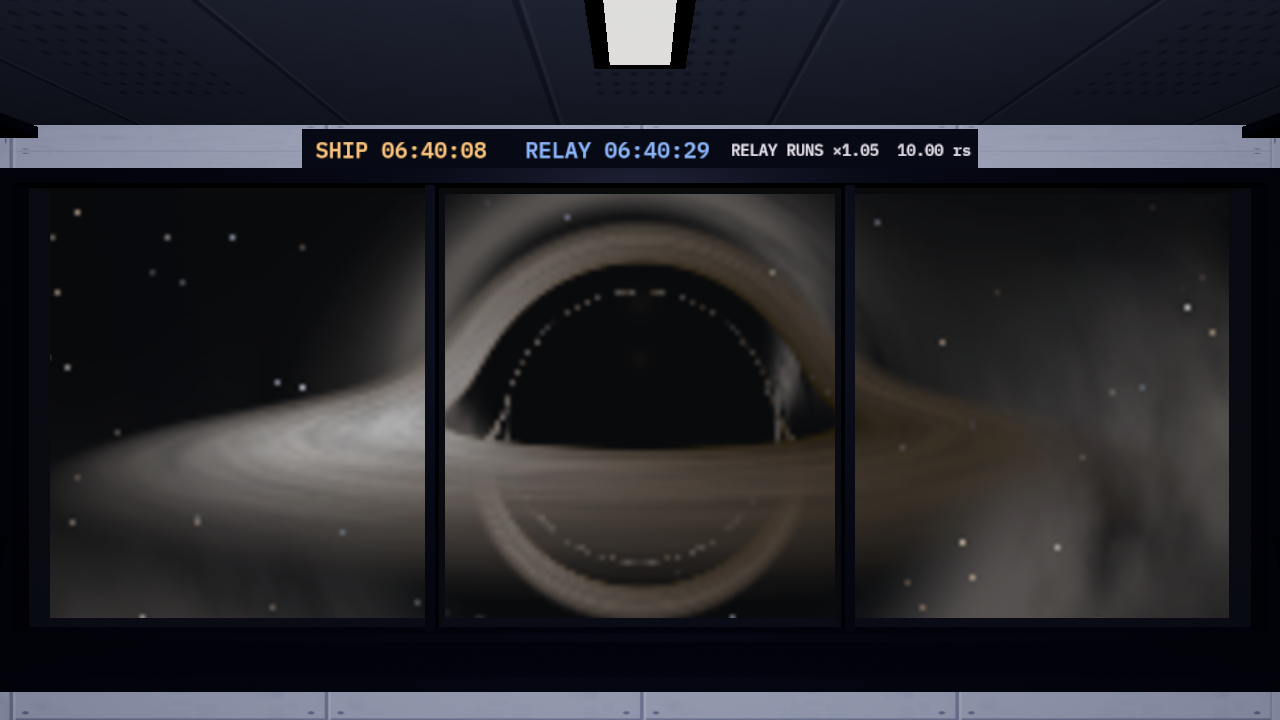
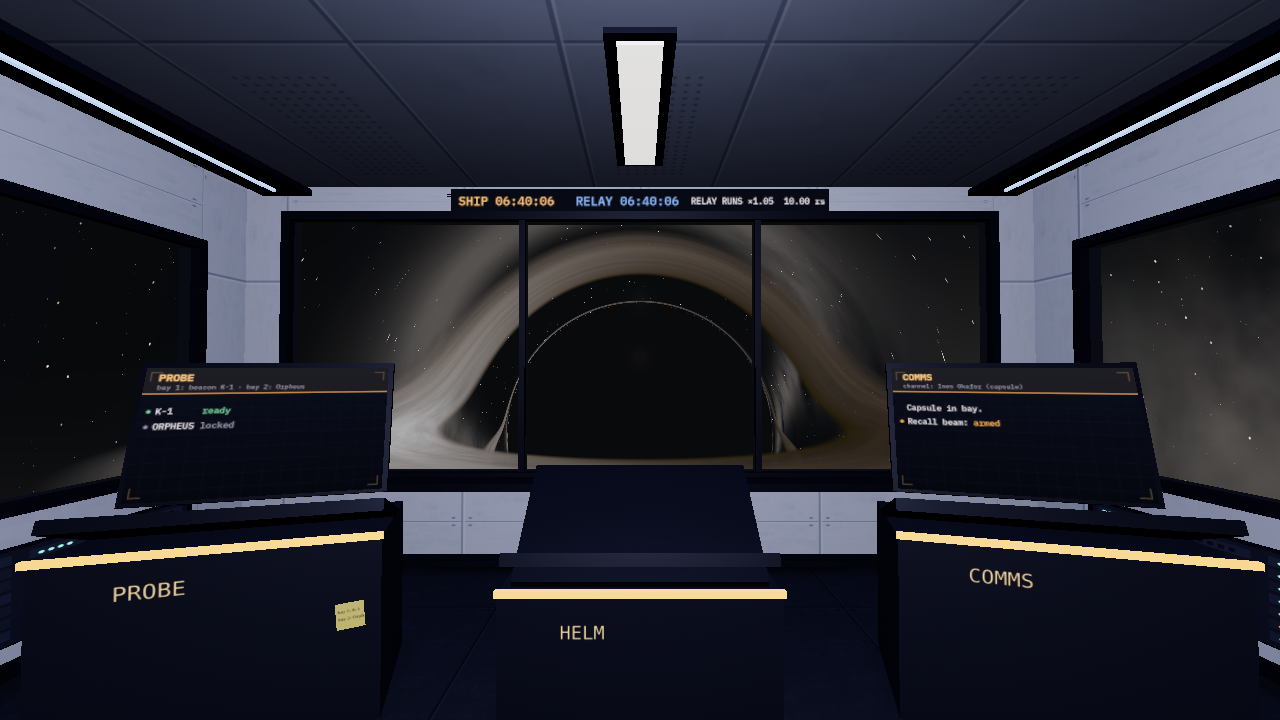
Photo mode: develop the sky at full resolution
A saved picture used the sky's live adaptive scale (0.2 to 0.3 on a small
GPU), so the sky in it was blurry. The sky is now traced once at one sky
pixel per picture pixel with a step budget of at least 640, past the
low-GPU cap, then the live scale and steps are restored. That frame is
kept out of the adaptive GPU timing so the live scale is not pulled down
afterwards. "Developing…" is shown while it renders. The photo-mode
captures are re-shot on top of the photon-ring change from #25.

drafted by Claude on behalf of Daniel Stephenson

Claude-Session: https://claude.ai/code/session_01LYNeuoywqv36qaEM575vny

diff --git a/src/game/photo.js b/src/game/photo.js
@@ -6,7 +6,7 @@
 // see-through windows) on top. Neither keeps its buffer after the frame is shown, so capture() draws
 // both afresh and copies them into one canvas in the same task, sky first.
 import { h } from '../ui/dom.js';
-import { hoverVelocity, LOW_GPU } from '../render/raytracer.js';
+import { hoverVelocity } from '../render/raytracer.js';
 import { shipPosition, toHole } from './world.js';
 import { step } from './walk.js';
 import { unlock } from './discoveries.js';
@@ -148,7 +148,11 @@ export function createPhoto(g, { el, THREE, camera, scene, renderer, sky, skyCan
   async function capture() {
     if (!on || busy) return null;
     busy = true;
+    let note = null;
     try {
+      // the full-quality sky can take a second or so on a small GPU: say so, and let that paint first
+      note = h('div.ph-developing', { role: 'status' }, 'Developing…'); el.append(note);
+      await new Promise((r) => requestAnimationFrame(() => requestAnimationFrame(r)));
       const pr = Math.min(2, devicePixelRatio || 1), w = el.clientWidth, hh = el.clientHeight;
       const W = Math.round(w * pr), H = Math.round(hh * pr);
       camera.updateMatrixWorld();
@@ -157,12 +161,17 @@ export function createPhoto(g, { el, THREE, camera, scene, renderer, sky, skyCan
       const ctx = out.getContext('2d');
       ctx.fillStyle = '#000'; ctx.fillRect(0, 0, W, H);
       if (sky && !sky.lost) {
-        const scale0 = sky.state.scale;
-        sky.set({ ...(g.skyOverride ? g.skyOverride(g) : skyParams()), scale: LOW_GPU ? 0.5 : 1 });
-        sky.render(null); // the whole frame, not just the window rectangles
+        // one frame at full resolution (one sky pixel per picture pixel) and a generous step budget,
+        // whatever the live adaptive scale is; the state is set directly so the low-GPU cap in set()
+        // does not apply to this single frame. The live values come straight back afterwards.
+        const { scale: scale0, steps: steps0 } = sky.state;
+        sky.set(g.skyOverride ? g.skyOverride(g) : skyParams());
+        sky.state.scale = pr / (devicePixelRatio || 1); sky.state.steps = Math.max(steps0, 640);
+        const timer = sky.timer; sky.timer = null; // keep this one-off frame out of the adaptive GPU timing
+        try { sky.render(null); } finally { sky.timer = timer; } // the whole frame, not just the window rectangles
         ctx.imageSmoothingQuality = 'high';
         ctx.drawImage(skyCanvas, 0, 0, W, H);
-        sky.set({ scale: scale0 });
+        sky.state.scale = scale0; sky.state.steps = steps0;
       }
       if (!look.noShip) { renderer.render(scene, camera); ctx.drawImage(threeCanvas, 0, 0, W, H); }
       if (look.vignette) {
@@ -171,6 +180,7 @@ export function createPhoto(g, { el, THREE, camera, scene, renderer, sky, skyCan
         ctx.fillStyle = gr; ctx.fillRect(0, 0, W, H);
       }
       resize(); // the game's own resolution again
+      note.remove(); note = null;
       const blob = await new Promise((res) => out.toBlob(res, 'image/png'));
       if (!blob) throw new Error('no image');
       api.last = blob;
@@ -186,7 +196,7 @@ export function createPhoto(g, { el, THREE, camera, scene, renderer, sky, skyCan
       console.warn('photo capture failed', e);
       g.hud.toast('Could not save the picture');
       return null;
-    } finally { busy = false; }
+    } finally { busy = false; note?.remove(); }
   }
 
   const onP = (e) => {

diff --git a/src/game/photo.css b/src/game/photo.css
@@ -6,6 +6,7 @@
 .ph-vignette[hidden] { display: none; }
 .ph-flash { position: absolute; inset: 0; z-index: 9; background: #fff; pointer-events: none; animation: ph-flash .45s ease-out forwards; }
 @keyframes ph-flash { from { opacity: .55; } to { opacity: 0; } }
+.ph-developing { position: absolute; z-index: 9; left: 50%; top: 50%; transform: translate(-50%, -50%); padding: 10px 18px; border-radius: 10px; background: rgba(7,8,18,.85); border: 1px solid var(--line); font: 500 13px var(--mono); letter-spacing: .08em; color: var(--amber-2); pointer-events: none; }
 .ph-bar { position: absolute; z-index: 7; left: 50%; transform: translateX(-50%); bottom: calc(14px + env(safe-area-inset-bottom, 0px)); width: min(640px, calc(100% - 32px)); box-sizing: border-box;
   padding: 10px 14px; border-radius: 12px; background: rgba(7,8,18,.82); border: 1px solid var(--line); backdrop-filter: blur(6px); display: grid; gap: 8px; }
 .ph-bar[hidden] { display: none; }
